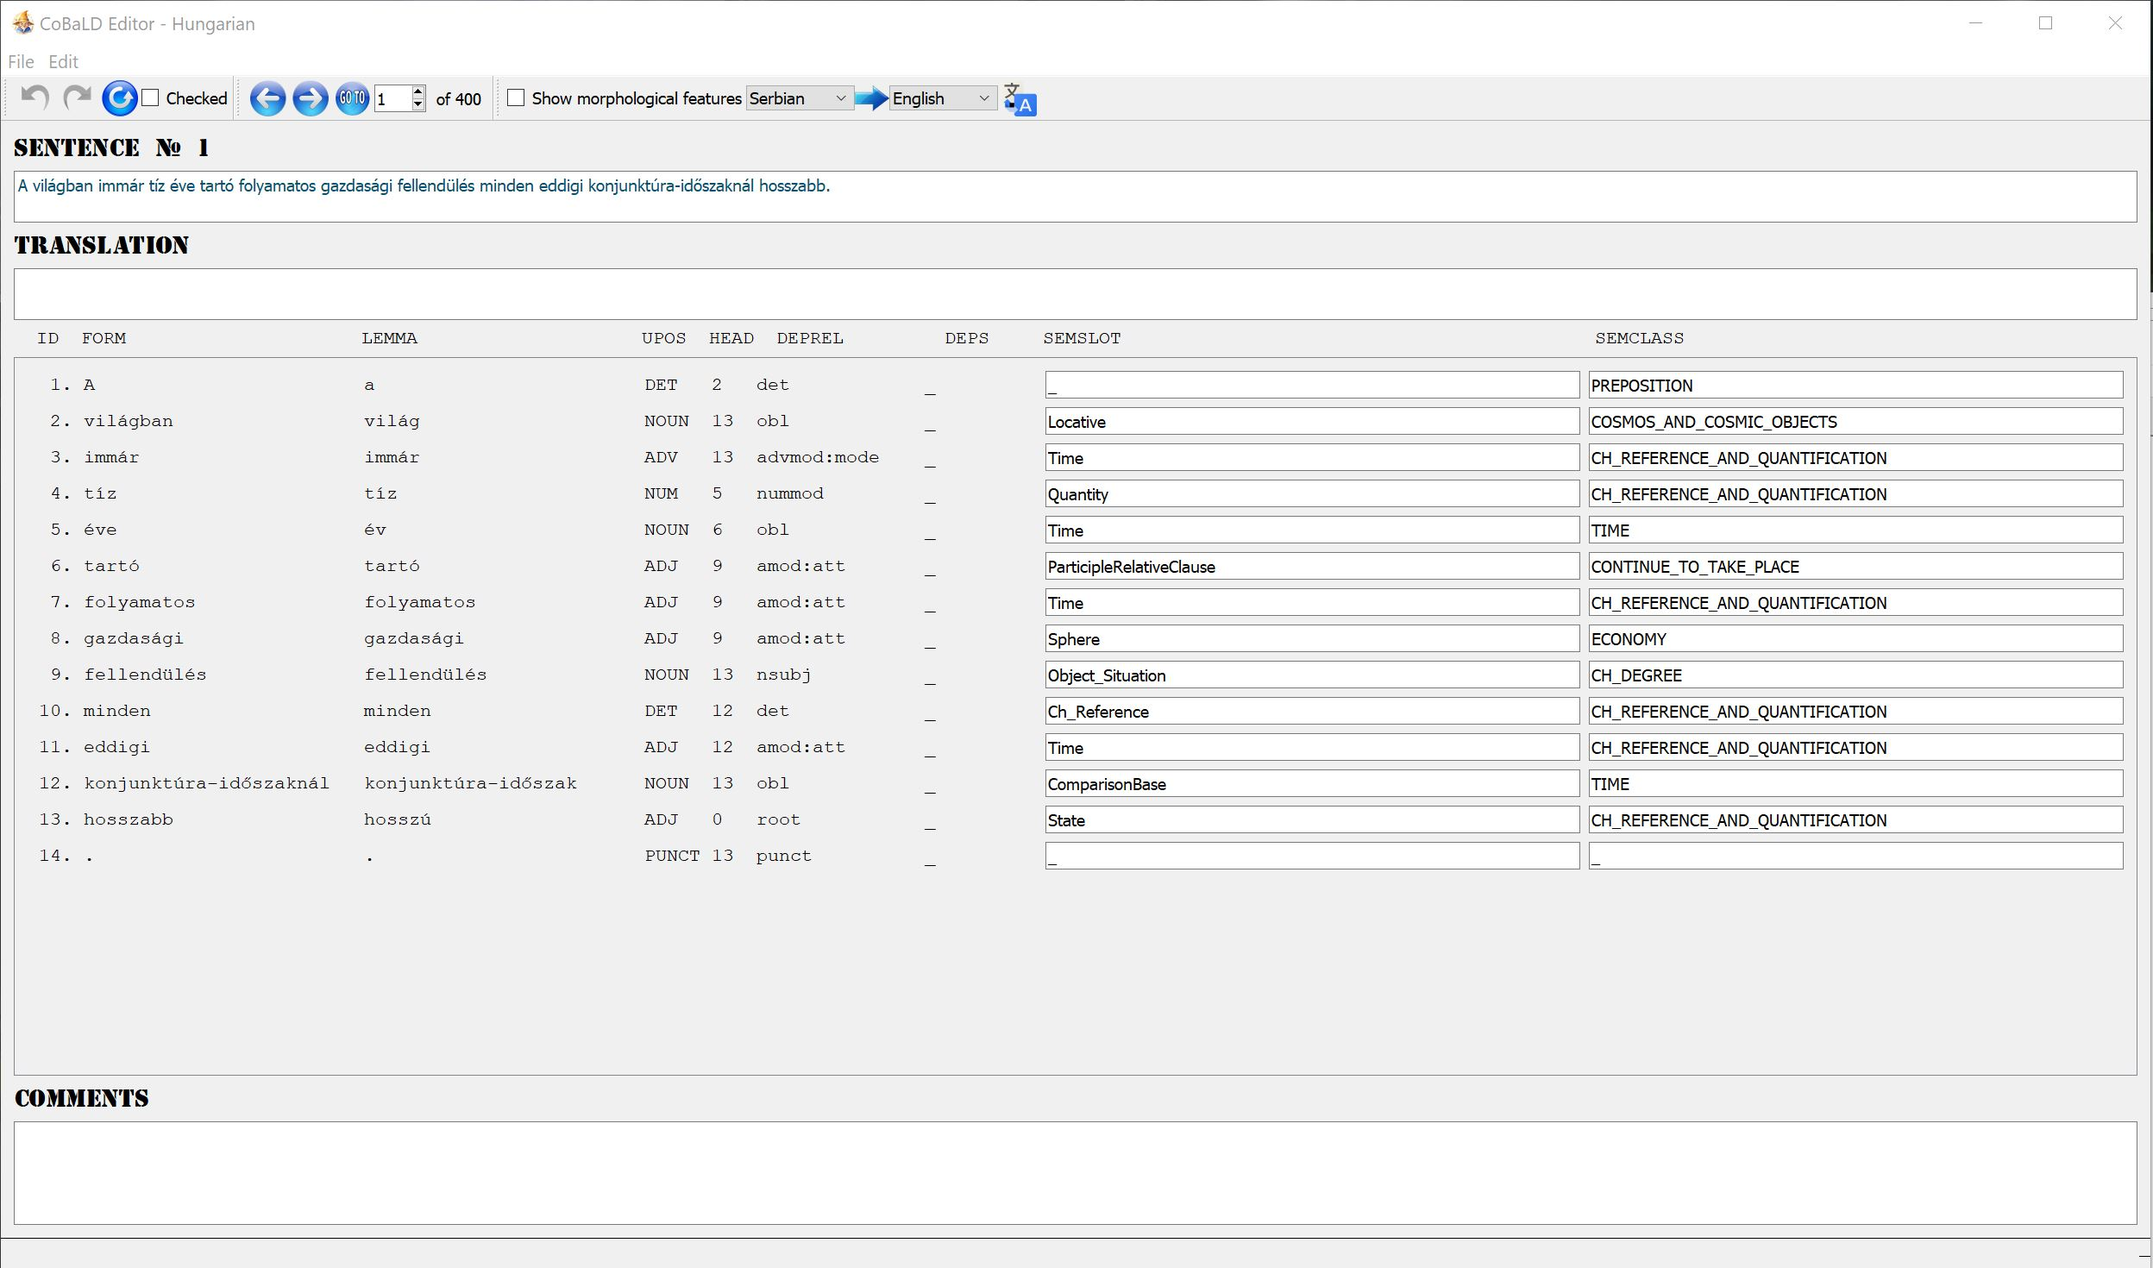
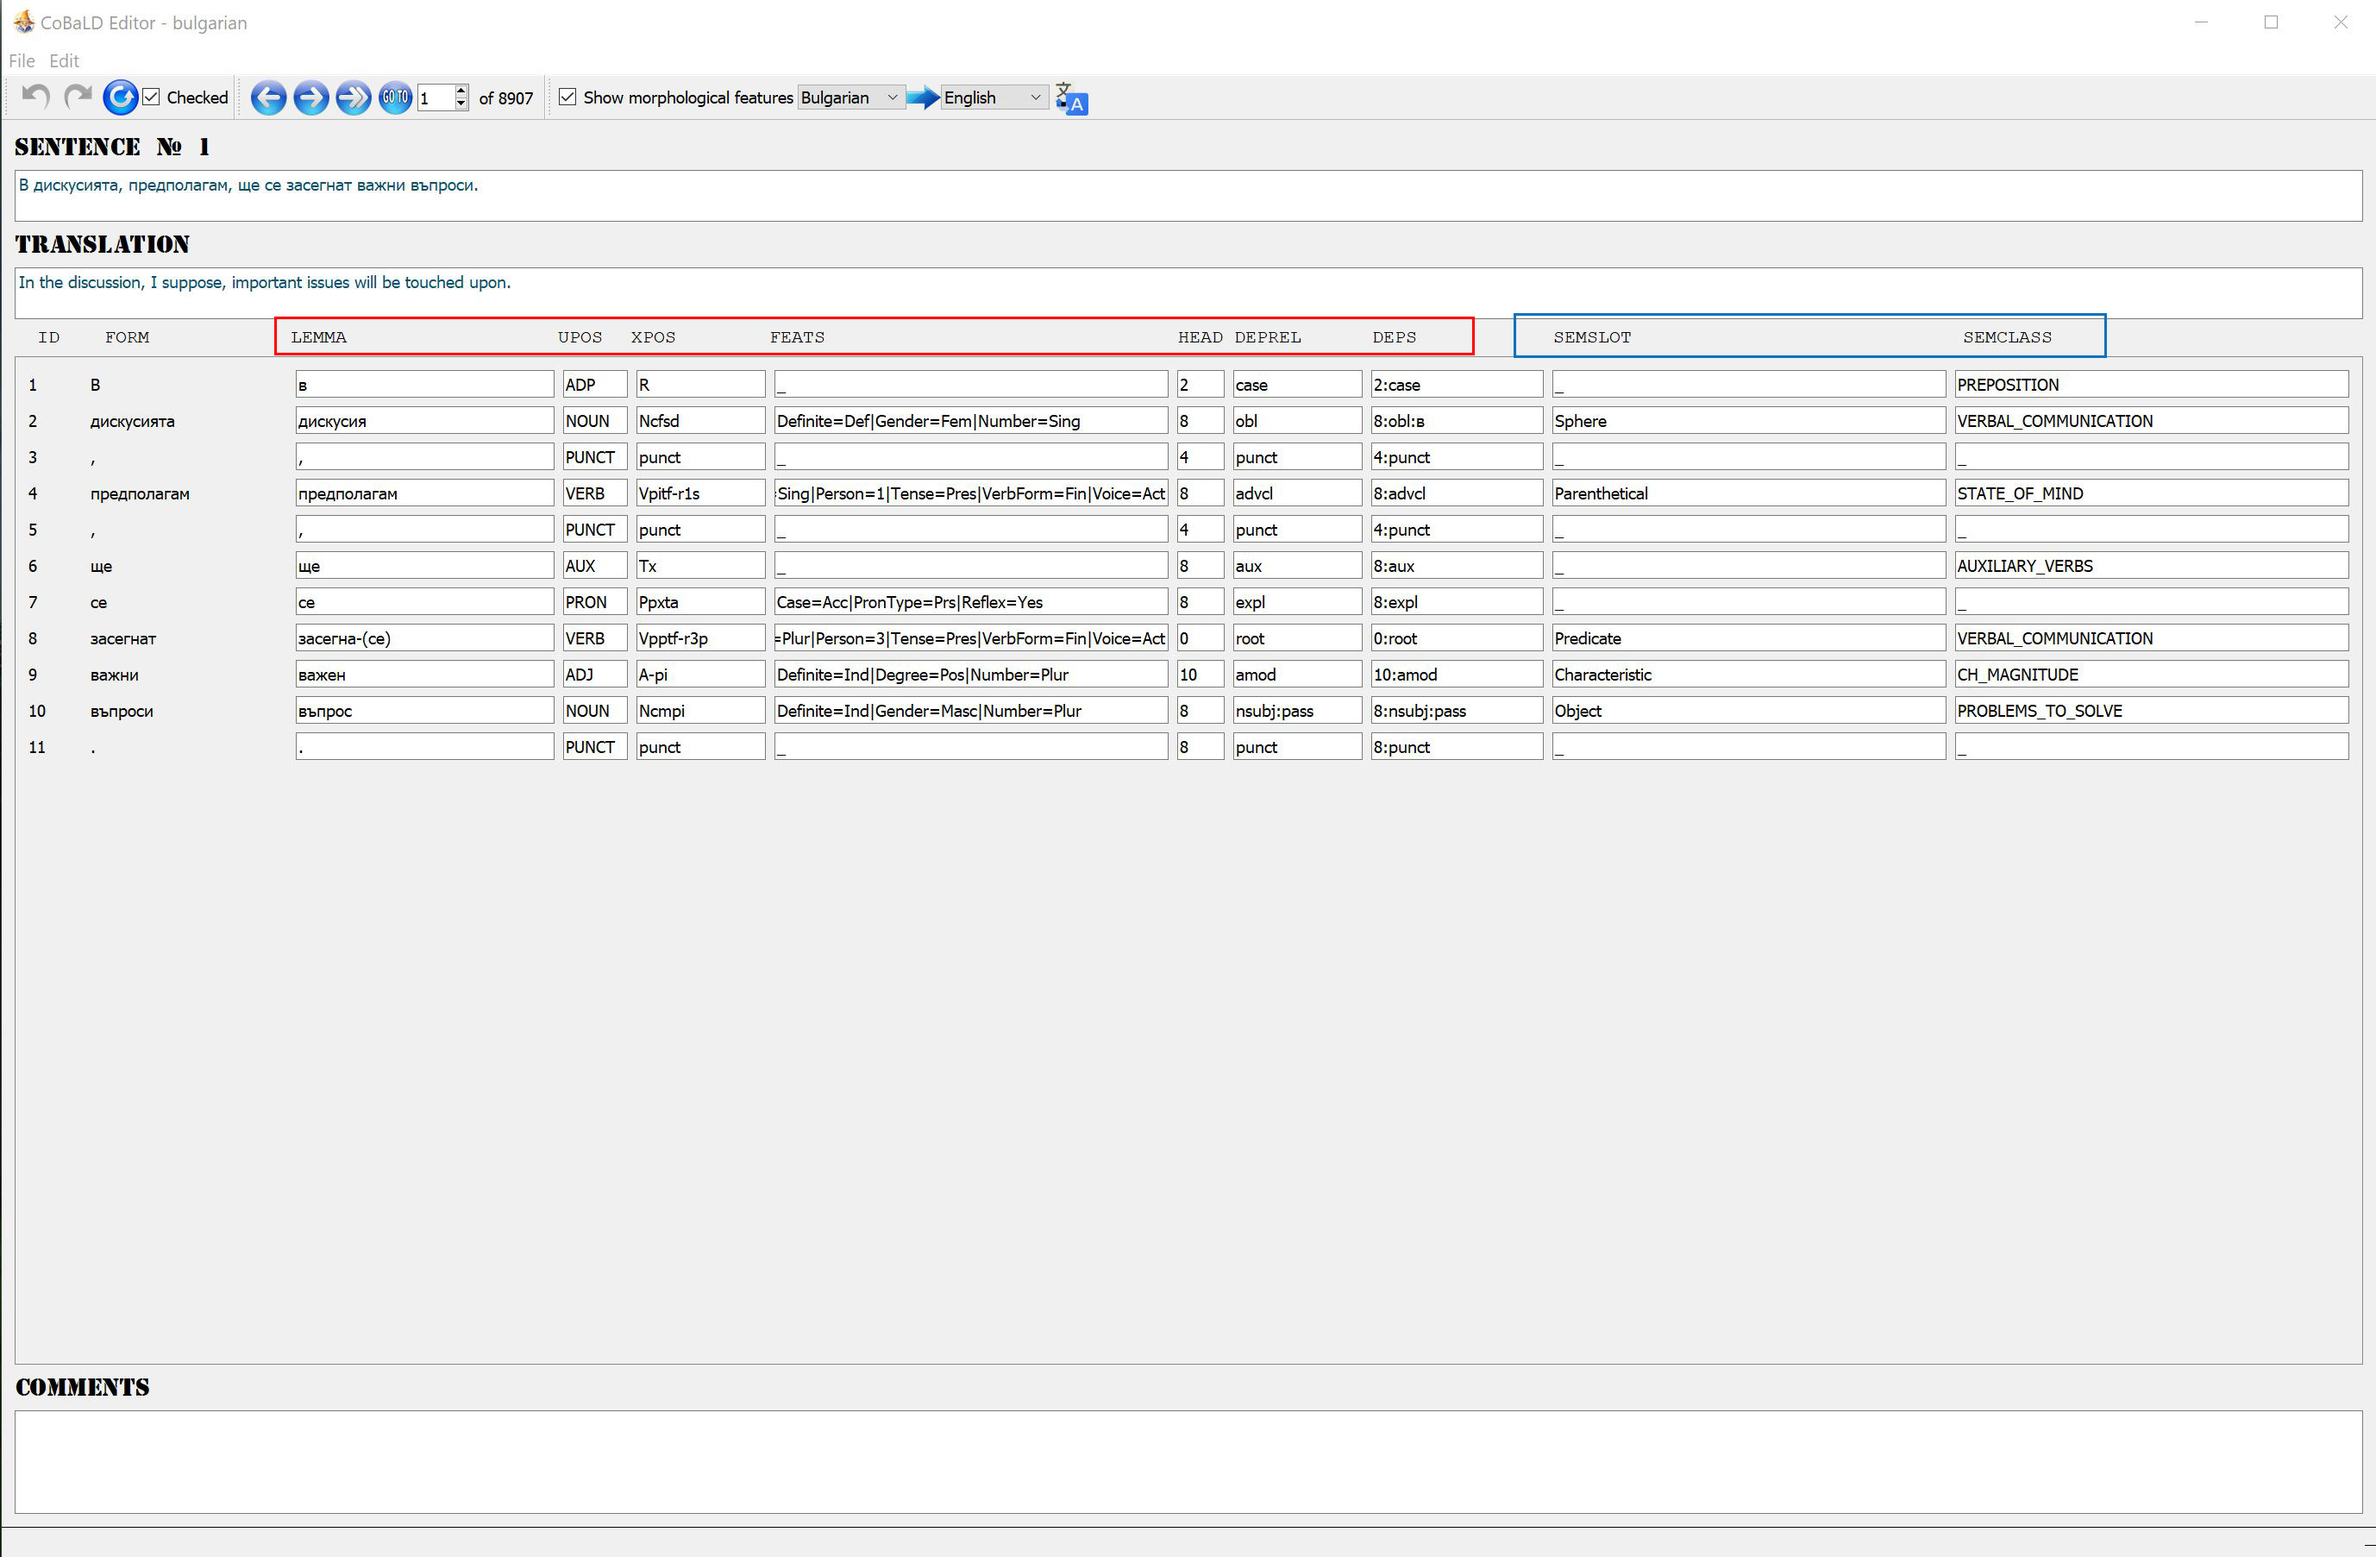
update manual and small fixes

diff --git a/inside/window.py b/inside/window.py
@@ -381,6 +381,8 @@ class Window(QtWidgets.QMainWindow):
                     # -1 means step direction
                     self.renumerate(i - 1, -1)
                 break
+        else:
+            QtWidgets.QMessageBox.about(self, 'Error', f'No such index: {choice}')
         self.loadsenttogui(self.data.current)
 
     @pyqtSlot(str)
@@ -679,7 +681,7 @@ class Window(QtWidgets.QMainWindow):
                     QtCore.QTimer.singleShot(2000, lambda: tokenlayout.itemAt(tokenlayout.count() - 5).widget().setStyleSheet(""))
                     QtWidgets.QMessageBox.about(self, 'Error', f'Incorrect head: {head}')
                     return f'!!!{head}'
-                if head != '_' and int(head) > int(self.data.data[sentkey].tokens[-1].idx):
+                if head != '_' and int(head) not in {int(t.idx) for t in self.data.data[sentkey].tokens} | {0}:
                     tokenlayout.itemAt(tokenlayout.count() - 5).widget().setStyleSheet("background-color: rgb(245, 66, 87)")
                     QtCore.QTimer.singleShot(2000, lambda: tokenlayout.itemAt(tokenlayout.count() - 5).widget().setStyleSheet(""))
                     QtWidgets.QMessageBox.about(self, 'Error', f'Head out of sentence boundaries: {head}')

diff --git a/Manual.md b/Manual.md
@@ -1,33 +1,45 @@
 ## CoBaLD Editor Tutorial
 
+The program allows one to annotate morphosyntactic and semantic information for the CoBaLD standard. This is how it looks with an imported .conllu:
+
+<img src="https://github.com/fortvivlan/CoBaLDSemEditor/blob/main/img/man00.JPG"  width="800">
+
 #### Create new project
 
-The program keeps its data in the form of projects: in order to start working, you must create new project. A project is a file in .cobald format which stores your CONLL-U with all its annotation, the translations you get automatically, your comments and checkmarks. 
+The program keeps its data in the form of projects: in order to start working, you must create a new project. A project is a file in .cobald format which stores your CONLL-U with all its annotation, the translations you get automatically, your comments and checkmarks (thus, its size may be twice as big as the size of the original .conllu).
 
 <img src="https://github.com/fortvivlan/CoBaLDSemEditor/blob/main/img/man01.JPG"  width="400">
 
-In the File menu, choose 'New project' and in the opened dialogue window choose a place and a name for your future project. Afterwards, you have to import the CONLL-U: choose the corresponding option in the File menu and find the CONLL-U you want to work at.
+In the File menu, choose 'New project' and in the opened dialogue window choose a place and a name for your future project. Afterwards, you have to import the CONLL-U: the dialogue window for importing will open automatically after you create a project. You may replace the .conllu in your project any time by manually importing it.
 
 <img src="https://github.com/fortvivlan/CoBaLDSemEditor/blob/main/img/man02.JPG"  width="600">
 
-After you import your CONLL-U, it will load and you will see the first sentence.
+After you import your CONLL-U, it will load and you will see the first sentence. Note the columns: you cannot edit index and wordform, but you can edit morphosyntax (in a red border)  and semantics (in a blue border).
 
 <img src="https://github.com/fortvivlan/CoBaLDSemEditor/blob/main/img/man03.JPG"  width="800">
 
+You can also add and remove tokens (but please do so only for elided heads with indices like 1.1 or such) by calling a context menu which appears when you right-click on any token wordform:
+
+<img src="https://github.com/fortvivlan/CoBaLDSemEditor/blob/main/img/man03.5.JPG"  width="200">
+
+The program will then ask you to input the index of a token to add or to remove. If adding, it will automatically add the new '#NULL' token at a chosen position, if removing, it will try to remove a token with such index. If you accidentally have two tokens with the same index, it will remove the first one. 
+
+If you try to add a token with an integer-type index, the program will allow you to do that and even re-numerate the rest of the tokens, but you won't be able to edit its wordform, so please don't do it. The same goes for deleting such tokens: if you try to delete an integer-indexed token with a non=#NULL form, the program will warn you about that.
+
 #### Toolbars
 
-Let's view available toolbars. 
+Let's view the available toolbars. 
 
 <img src="https://github.com/fortvivlan/CoBaLDSemEditor/blob/main/img/man04.JPG"  width="400">
 
 
-On the left, there are keys for undo and redo actions: feel free to use hotkeys `Ctrl+Z` and `Ctrl+Y`! These keys undo any changes you've made to the semantic slots or classes: they remember the initial state of a category and if you want to restore it, just undo it. There is also an option to restore the annotation as it was before your actions: it's the third key here. Mind that the reset action is irreversible, you'll lose all your edits if you reset! The program will ask you to confirm your choice. 
+On the left, there are keys for undo and redo actions: feel free to use hotkeys `Ctrl+Z` and `Ctrl+Y`! These keys undo any changes you've made to almost any fields: they remember the initial state of a category and if you want to restore it, just undo it. There is also an option to restore the annotation as it was before your actions: it's the third key here. Mind that the reset action is irreversible, you'll lose all your edits if you reset! The program will ask you to confirm your choice. 
 
 On this toolbar, there is also a checkbox to mark the sentence as viewed. Its state gets saved with the edits you'd made after you've moved to the next (or previous) sentence. 
 
 <img src="https://github.com/fortvivlan/CoBaLDSemEditor/blob/main/img/man05.JPG"  width="400">
 
-Next, there are keys for navigation: you can go to the next sentence or return to the previous one; if you wish to switch to a sentence with a certain number, you may enter this number in the box and press the 'Go to' key. 
+Next, there are keys for navigation: you can go to the next sentence or return to the previous one; you can go to the first sentence marked as unchecked; if you wish to switch to a sentence with a certain number, you may enter this number in the box and press the 'Go to' key (or just press 'Enter').
 
 <img src="https://github.com/fortvivlan/CoBaLDSemEditor/blob/main/img/man06.JPG"  width="500">
 
@@ -37,11 +49,13 @@ Finally, there is the option to show morphological features (beware: these are l
 
 <img src="https://github.com/fortvivlan/CoBaLDSemEditor/blob/main/img/man07.JPG"  width="600">
 
-Whenever you edit semantic slot and semantic class lines, the program will suggest variants for you. You may choose them with your mouse or press `Down` arrow on your keyboard and `Enter` whenever the needed variant is chosen. 
+Whenever you edit UPOS, XPOS, dependency relation, semantic slot and semantic class lines, the program will suggest variants for you. You may choose them with your mouse or press `Down` arrow on your keyboard and `Enter` whenever the needed variant is chosen. 
 
 <img src="https://github.com/fortvivlan/CoBaLDSemEditor/blob/main/img/man08.JPG"  width="600">
 
-If you make a typo, the program won't allow you to save your sentence annotation: it will warn you and highlight the error with red. 
+If you make a typo in a semantic slot or class, the program won't allow you to save your sentence annotation: it will warn you and highlight the error with red. It also won't allow to choose an unexistent head for base UD annotation. The program allows one to choose morphological features and dependency relations it doesn't know, but it will ask you to check them.
+
+<img src="https://github.com/fortvivlan/CoBaLDSemEditor/blob/main/img/man09.JPG"  width="300">
 
 #### Export CONLL-U and share
 
